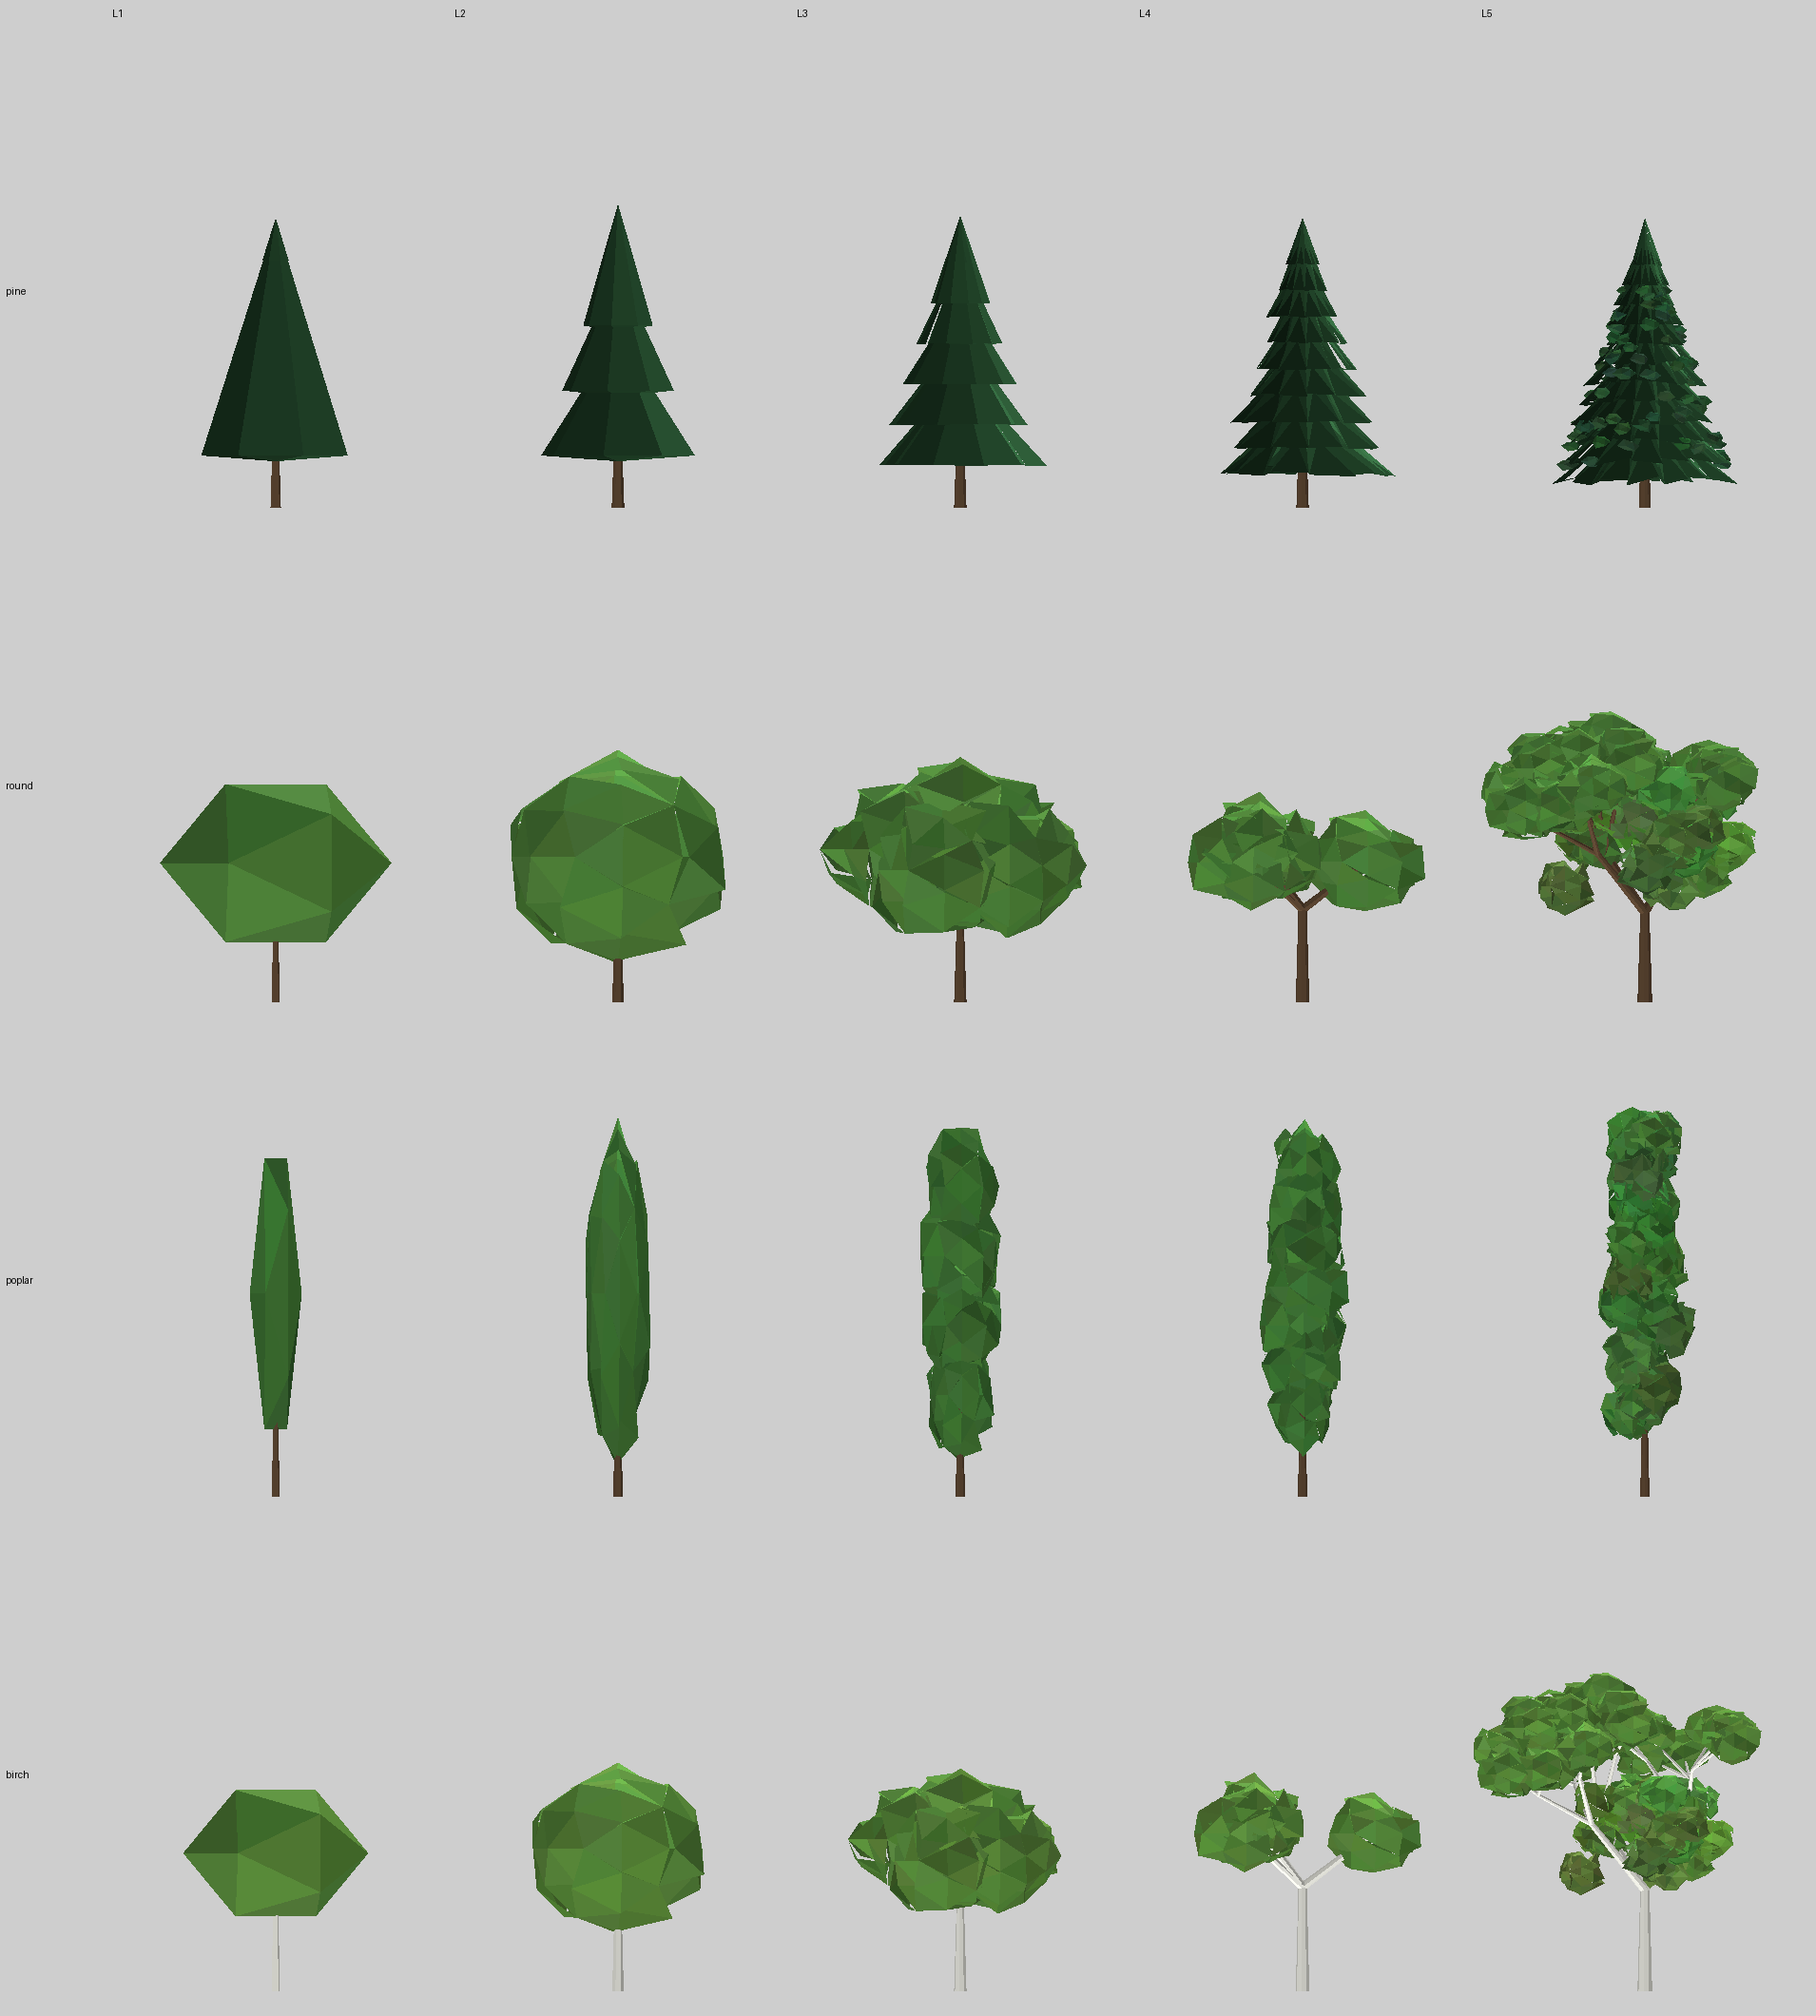
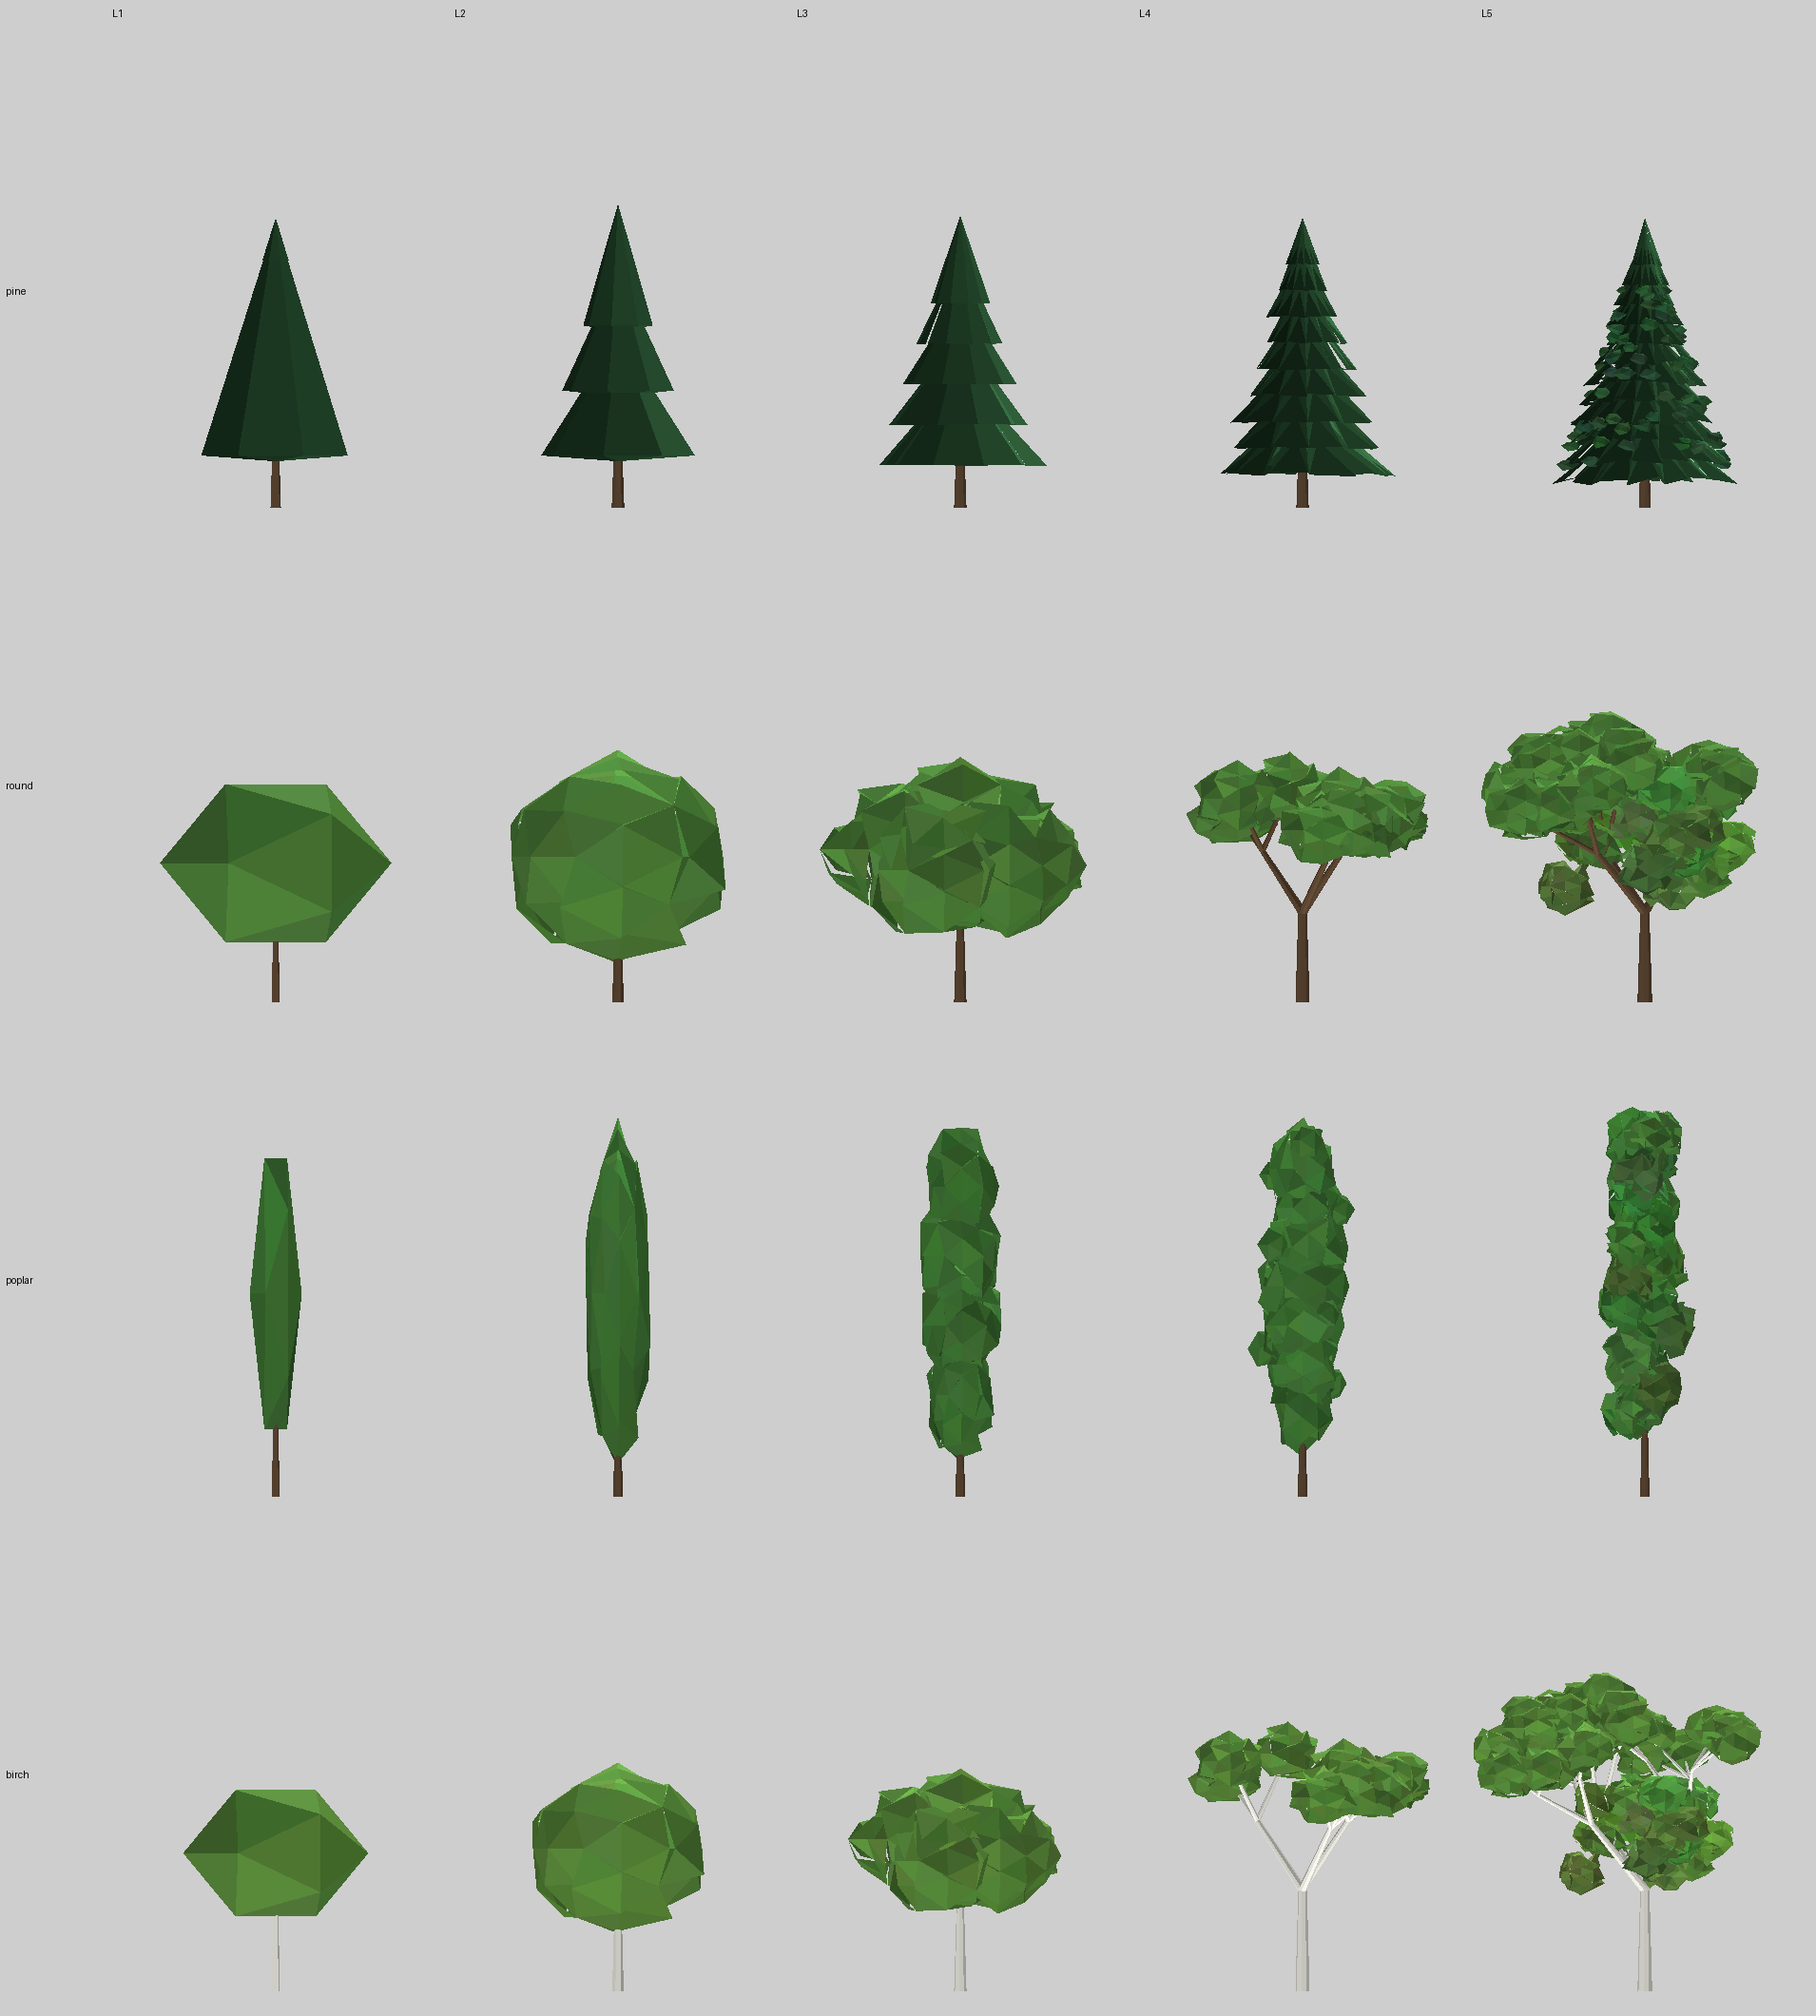
Draft: tree LOD L4 gets more branching
Claude-Session: https://claude.ai/code/session_01RNafSh7hv1irvjEfL1pZuX

Changed region(s): [[0.6487, 0.8406, 0.8031, 0.934], [0.6487, 0.3736, 0.8031, 0.467], [0.6796, 0.5604, 0.7414, 0.716]]

diff --git a/drafts/tree_lod/tree_lod.py b/drafts/tree_lod/tree_lod.py
@@ -102,6 +102,9 @@ def tree(species, lvl, seed=7):
         elif lvl == 3:
             for k in range(4): blob(m, (0, 3.5+k*2.4, 0), 1.5-abs(k-1.5)*.2, 2.0, 1.5-abs(k-1.5)*.2, 1, col, rnd, .18)
         elif lvl == 4:
+            for k in range(8):                              # side branches with a small leaf lump on each
+                a = k*2.4; y = 3.0+k*1.2; e = (math.cos(a)*1.3, y+.9, math.sin(a)*1.3)
+                cyl(m, (0, y, 0), e, .06, .03, 5, BARK); blob(m, e, .55, .65, .55, 0, col, rnd, .2)
             for k in range(7): blob(m, (rnd.uniform(-.2, .2), 3.2+k*1.35, rnd.uniform(-.2, .2)), 1.45-abs(k-3)*.12, 1.5, 1.45-abs(k-3)*.12, 1, col, rnd, .22)
         else:
             for k in range(14):
@@ -121,7 +124,7 @@ def tree(species, lvl, seed=7):
                 a = k*1.26; blob(m, (math.cos(a)*cr*.5, th+cr*.55+rnd.uniform(-.3, .5), math.sin(a)*cr*.5), cr*.62, cr*.55, cr*.62, 1, col, rnd, .2)
             blob(m, (0, th+cr*.9, 0), cr*.65, cr*.55, cr*.65, 1, col, rnd, .2)
         elif lvl == 4:
-            branches(m, (0,0,0), (0,1,0), th+.6, .24, 1, rnd, bark, col, 8, 1, cr*.5, 1.05, 4)
+            branches(m, (0,0,0), (0,1,0), th+.5, .25, 2, rnd, bark, col, 8, 1, cr*.36, 1.0, 3)
         else:
             branches(m, (0,0,0), (0,1,0), th+.5, .26, 3, rnd, bark, col, 8, 1, cr*.3, 1.0, 3)
             for i in range(26):
